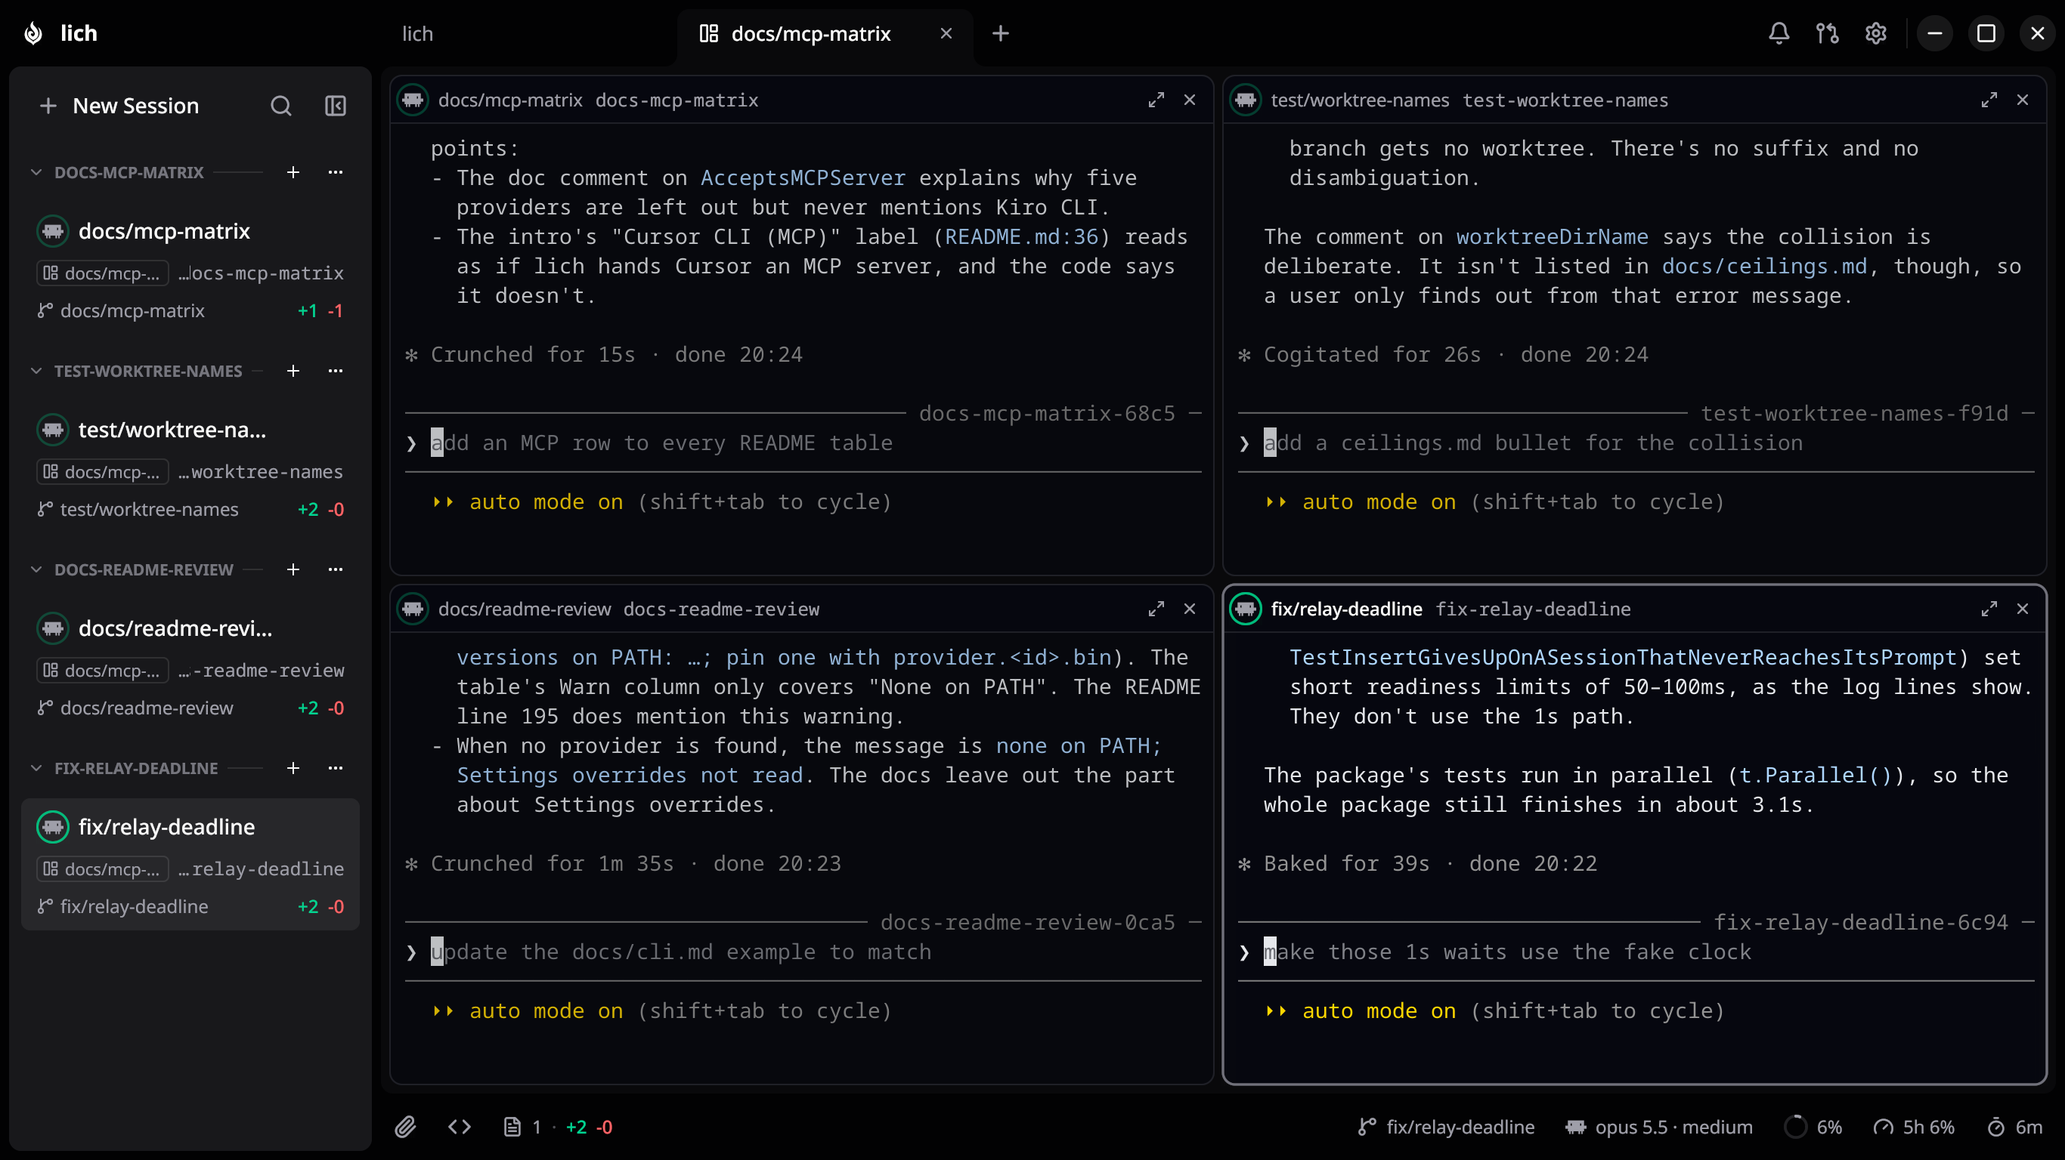
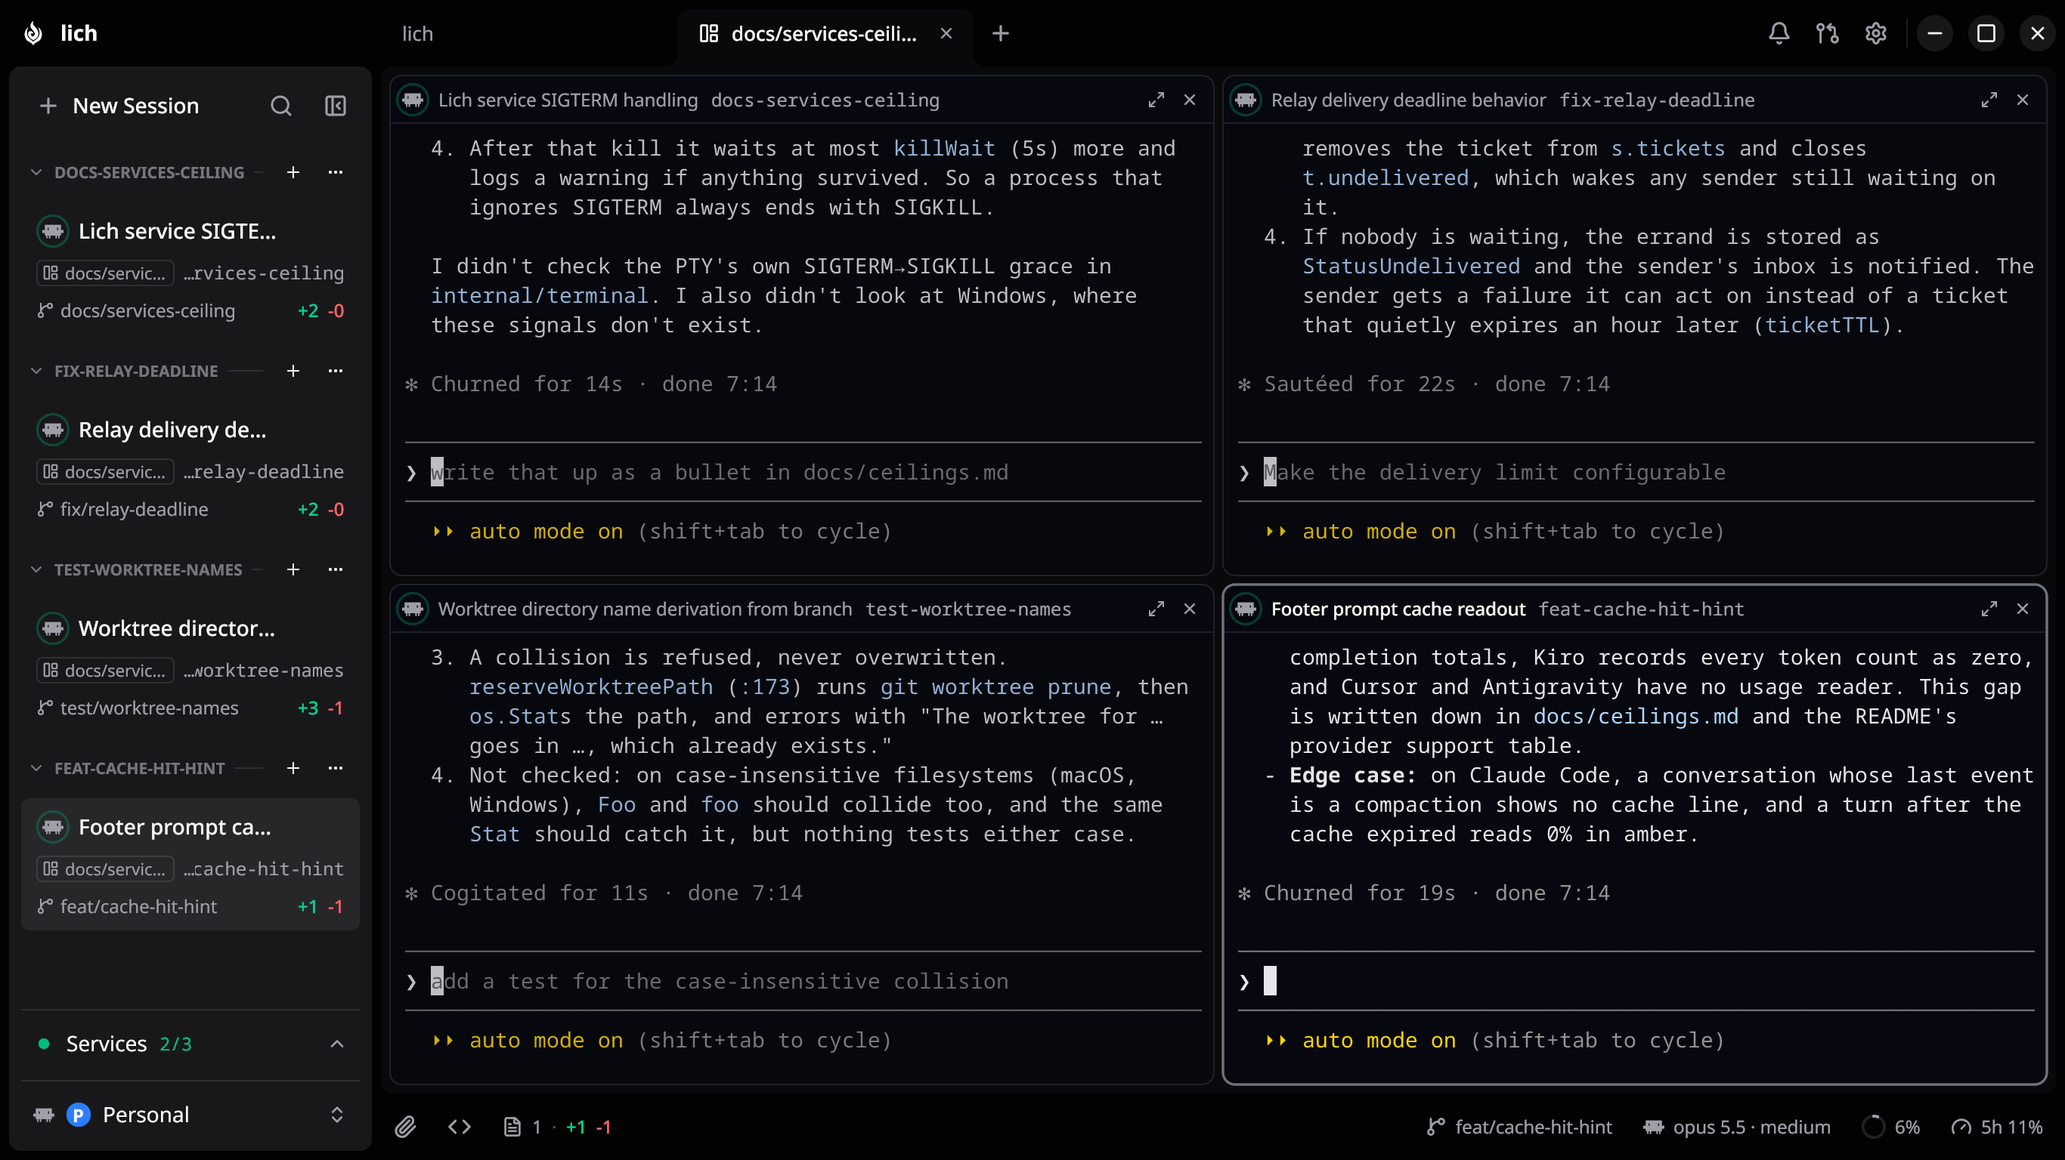
docs(readme): recapture the lead screenshot and replace the entrypoint line with services (#947)
The lead screenshot predated the Services row and the profile row at the
foot of the sidebar, and the session cards' current layout. It is
recaptured from the native window at the same size, and its alt text in
every README language now names what it shows.

The "Keep a real terminal" bullet still described terminal entrypoints,
removed in #849; it now describes project services, which took their place.

diff --git a/README.ru.md b/README.ru.md
@@ -18,7 +18,7 @@
     <a href="LICENSE"><img alt="License" src="https://img.shields.io/badge/license-AGPL--3.0-blue" /></a>
     <a href="https://github.com/sponsors/omartelo"><img alt="Sponsor" src="https://img.shields.io/github/sponsors/omartelo?color=ea4aaa&logo=githubsponsors&label=sponsors" /></a>
   </p>
-  <img src="docs/media/session.png" alt="Четыре сессии Claude Code рядом на одном экране, каждая в своём git worktree. В боковой панели видны их ветки и значок diff, внизу — модель, подписка и ветка" width="1000" />
+  <img src="docs/media/session.png" alt="Четыре сессии Claude Code рядом на одном экране, каждая в своём git worktree. В боковой панели видны их ветки и значок diff, а внизу запущенные сервисы проекта и профиль; на нижней панели ветка, модель и подписка" width="1000" />
   <!-- sponsor-logos: company logos go here, between the screenshot and Why lich -->
 </div>
 
@@ -38,11 +38,10 @@
   [Поддержка провайдеров](#поддержка-провайдеров).
 - **Работать в настоящем терминале.** Оболочки на PTY, по нескольку на проект,
   с отрисовкой на GPU и историей прокрутки с поиском, которая переживает закрытие
-  и повторное открытие окна. Задайте терминалу точку входа (`lazygit`, `k9s`,
-  `pnpm dev`), и он каждый раз будет открываться прямо в этом инструменте,
-  одинаково на Linux, macOS и Windows. Ни rc-файл оболочки, ни профиль
-  PowerShell перед этим не загружаются, поэтому точка входа, которая работает у
-  вас, сработает и у того, с кем вы ею поделитесь. Нижняя панель следит за `cd`
+  и повторное открытие окна. То, что проект держит запущенным (dev-сервер,
+  туннель, `lazydocker`), сохраняется один раз как сервис: его запускают,
+  останавливают и читают внизу боковой панели, и он может стартовать вместе с
+  lich. Нижняя панель следит за `cd`
   и показывает ветку, а в сессиях Claude Code, Codex и Kiro CLI ещё и модель с
   текущим окном контекста. Для Claude Code, Codex, Antigravity, Cursor CLI и
   подписки OpenCode Go там же видно, сколько осталось в скользящем окне лимитов

diff --git a/README.ja.md b/README.ja.md
@@ -18,7 +18,7 @@
     <a href="LICENSE"><img alt="License" src="https://img.shields.io/badge/license-AGPL--3.0-blue" /></a>
     <a href="https://github.com/sponsors/omartelo"><img alt="Sponsor" src="https://img.shields.io/github/sponsors/omartelo?color=ea4aaa&logo=githubsponsors&label=sponsors" /></a>
   </p>
-  <img src="docs/media/session.png" alt="1つの分割画面に並んだ4つの Claude Code セッション。それぞれ専用の git ワークツリーで動いています。サイドバーには各セッションがブランチと差分バッジ付きで並び、フッターにはモデル、プラン、ブランチが表示されています" width="1000" />
+  <img src="docs/media/session.png" alt="1つの分割画面に並んだ4つの Claude Code セッション。それぞれ専用の git ワークツリーで動いています。サイドバーには各セッションがブランチと差分バッジ付きで並び、その下にプロジェクトで動いているサービスとプロファイルがあります。フッターにはブランチ、モデル、プランが表示されています" width="1000" />
   <!-- sponsor-logos: company logos go here, between the screenshot and Why lich -->
 </div>
 
@@ -37,10 +37,9 @@ lich でできることは次のとおりです。
   詳しくは[プロバイダー対応状況](#プロバイダー対応状況)の表にまとめています。
 - **ターミナルは実際のターミナルのままです。** PTY ベースのシェルをプロジェクトごとにいくつでも開け、
   描画は GPU で行います。スクロールバックは検索でき、ウィンドウを閉じて開き直しても消えません。
-  ターミナルにエントリポイント（`lazygit`、`k9s`、`pnpm dev` など）を設定すると、
-  開くたびにそのツールがすぐ起動します。これは Linux、macOS、Windows のどれでも同じです。
-  シェルの rc や PowerShell プロファイルを先に読み込まないので、自分の環境で動くエントリポイントは
-  共有した相手の環境でもそのまま動きます。フッターは `cd` に合わせて今のブランチを表示します。
+  開発サーバーやトンネル、`lazydocker` のようにプロジェクトで動かし続けるものは、
+  一度サービスとして保存すれば、サイドバーの下から起動・停止し、出力を読めます。
+  lich と一緒に起動させることもできます。フッターは `cd` に合わせて今のブランチを表示します。
   Claude Code、Codex、Kiro CLI のセッションでは、使用中のモデルとコンテキストウィンドウも出ます。
   Claude Code、Codex、Antigravity、Cursor CLI、OpenCode Go のサブスクリプションなら、
   プランのローリングウィンドウの残りも表示します。

diff --git a/README.ko.md b/README.ko.md
@@ -18,7 +18,7 @@
     <a href="LICENSE"><img alt="License" src="https://img.shields.io/badge/license-AGPL--3.0-blue" /></a>
     <a href="https://github.com/sponsors/omartelo"><img alt="Sponsor" src="https://img.shields.io/github/sponsors/omartelo?color=ea4aaa&logo=githubsponsors&label=sponsors" /></a>
   </p>
-  <img src="docs/media/session.png" alt="분할 화면 하나에 나란히 띄운 Claude Code 세션 4개와 각 세션의 git worktree. 세션별 브랜치와 diff 배지를 보여 주는 사이드바, 모델과 플랜, 브랜치를 보여 주는 하단 바" width="1000" />
+  <img src="docs/media/session.png" alt="분할 화면 하나에 나란히 띄운 Claude Code 세션 4개와 각 세션의 git worktree. 사이드바에는 세션별 브랜치와 diff 배지, 맨 아래에 프로젝트에서 실행 중인 서비스와 프로필이 있고, 하단 바에는 브랜치와 모델, 플랜이 보입니다" width="1000" />
   <!-- sponsor-logos: company logos go here, between the screenshot and Why lich -->
 </div>
 
@@ -39,10 +39,9 @@ lich로 할 수 있는 일:
   [프로바이더 지원](#프로바이더-지원) 표에 정리해 두었습니다.
 - **실제 터미널을 그대로 씁니다.** 프로젝트마다 PTY 기반 셸을 여러 개 띄울 수 있고,
   렌더링은 GPU가 맡습니다. 스크롤백은 검색할 수 있고 창을 닫았다가 다시 열어도
-  사라지지 않습니다. 셸에 `lazygit`, `k9s`, `pnpm dev` 같은 엔트리포인트를 지정하면
-  Linux, macOS, Windows 어디서든 매번 그 도구가 바로 열립니다. 셸 rc나 PowerShell
-  프로필을 먼저 불러오지 않기 때문에, 내 환경에서 동작하는 엔트리포인트는 공유받은
-  사람의 환경에서도 똑같이 동작합니다. 하단 바는 `cd`를 따라가며 브랜치를 보여 줍니다.
+  사라지지 않습니다. 개발 서버, 터널, `lazydocker`처럼 프로젝트에서 계속 띄워 두는
+  것은 한 번 서비스로 저장해 두면 사이드바 아래에서 시작하고 멈추고 출력을 볼 수
+  있으며, lich와 함께 시작되게 할 수도 있습니다. 하단 바는 `cd`를 따라가며 브랜치를 보여 줍니다.
   Claude Code, Codex, Kiro CLI 세션이라면 사용 중인 모델과 컨텍스트 윈도우를, Claude
   Code, Codex, Antigravity, Cursor CLI와 OpenCode Go 구독이라면 플랜의 롤링 윈도우가
   얼마나 남았는지를 보여 주고, 원하면 세션에서 쓴 비용도 표시합니다(비용을 기록하는

diff --git a/README.zh-CN.md b/README.zh-CN.md
@@ -17,7 +17,7 @@
     <a href="LICENSE"><img alt="License" src="https://img.shields.io/badge/license-AGPL--3.0-blue" /></a>
     <a href="https://github.com/sponsors/omartelo"><img alt="Sponsor" src="https://img.shields.io/github/sponsors/omartelo?color=ea4aaa&logo=githubsponsors&label=sponsors" /></a>
   </p>
-  <img src="docs/media/session.png" alt="同一分屏里并排的四个 Claude Code 会话，各自在独立的 git worktree 里；侧栏列出每个会话的分支和 diff 标记，底栏显示模型、套餐和分支" width="1000" />
+  <img src="docs/media/session.png" alt="同一分屏里并排的四个 Claude Code 会话，各自在独立的 git worktree 里；侧栏列出每个会话的分支和 diff 标记，底部是项目正在运行的服务和当前 profile；底栏显示分支、模型和套餐" width="1000" />
   <!-- sponsor-logos: company logos go here, between the screenshot and Why lich -->
 </div>
 
@@ -36,10 +36,9 @@
   可执行文件只需指定一次，之后可以设一个默认，也可以每个会话单独选。lich 能从会话里
   *读出*哪些信息，各智能体不尽相同，详见[各智能体支持情况](#各智能体支持情况)一表。
 - **用的是真正的终端。** shell 由 PTY 驱动，每个项目可以开多个，用 GPU 渲染；滚动
-  缓冲区支持搜索，关掉窗口再打开也不会丢。给某个终端设一个入口命令（`lazygit`、`k9s`、
-  `pnpm dev`），它每次打开都直接进入这个工具，Linux、macOS 和 Windows 上都一样：
-  启动前不加载 shell rc 或 PowerShell profile，所以你这里能用的入口命令，分享给别人
-  也照样能用。底栏会跟着 `cd` 切换目录并显示当前分支；Claude Code、Codex 和 Kiro CLI
+  缓冲区支持搜索，关掉窗口再打开也不会丢。项目要一直开着的东西（开发服务器、隧道、
+  `lazydocker`）保存一次就成了服务，在侧栏底部启动、停止、查看输出，也可以随 lich
+  一起启动。底栏会跟着 `cd` 切换目录并显示当前分支；Claude Code、Codex 和 Kiro CLI
   会话还会显示模型和上下文窗口用量；Claude Code、Codex、Antigravity、Cursor CLI 和
   OpenCode Go 订阅会显示套餐滚动窗口还剩多少额度；如果你需要，还能显示会话花了多少钱，
   前提是该智能体记录了这项数据。

diff --git a/README.es.md b/README.es.md
@@ -18,7 +18,7 @@
     <a href="LICENSE"><img alt="License" src="https://img.shields.io/badge/license-AGPL--3.0-blue" /></a>
     <a href="https://github.com/sponsors/omartelo"><img alt="Sponsor" src="https://img.shields.io/github/sponsors/omartelo?color=ea4aaa&logo=githubsponsors&label=sponsors" /></a>
   </p>
-  <img src="docs/media/session.png" alt="Cuatro sesiones de Claude Code una al lado de la otra en un mismo grupo, cada una en su propio git worktree; la barra lateral muestra cada una con su rama y su indicador de diff, y en el pie de ventana se ven el modelo, el plan y la rama" width="1000" />
+  <img src="docs/media/session.png" alt="Cuatro sesiones de Claude Code una al lado de la otra en un mismo grupo, cada una en su propio git worktree; la barra lateral muestra cada una con su rama y su indicador de diff, y al pie los servicios del proyecto en marcha y el perfil; en el pie de ventana se ven la rama, el modelo y el plan" width="1000" />
   <!-- sponsor-logos: company logos go here, between the screenshot and Why lich -->
 </div>
 
@@ -38,11 +38,10 @@ lich te permite:
   [Compatibilidad por proveedor](#compatibilidad-por-proveedor).
 - **Tener una terminal de verdad.** Shells sobre PTY, varios por proyecto,
   renderizados en la GPU, con un historial en el que puedes buscar y que
-  sobrevive a cerrar y volver a abrir la ventana. Si a una le pones un punto de
-  entrada (`lazygit`, `k9s`, `pnpm dev`), se abre siempre directo en esa
-  herramienta, igual en Linux, macOS y Windows: no se carga antes ningún rc del
-  shell ni perfil de PowerShell, así que el punto de entrada que te funciona a
-  ti también le funciona a cualquiera con quien lo compartas. El pie de ventana
+  sobrevive a cerrar y volver a abrir la ventana. Lo que un proyecto mantiene en
+  marcha (un servidor de desarrollo, un túnel, un `lazydocker`) se guarda una
+  vez como servicio, que arrancas, detienes y lees desde el pie de la barra
+  lateral, y que puede arrancar junto con lich. El pie de ventana
   sigue cada `cd` y muestra la rama. En una sesión de Claude Code, Codex o Kiro
   CLI muestra además el modelo y la ventana de contexto en uso; con Claude Code,
   Codex, Antigravity, Cursor CLI y una suscripción de OpenCode Go, cuánto te

diff --git a/README.pt-BR.md b/README.pt-BR.md
@@ -18,7 +18,7 @@
     <a href="LICENSE"><img alt="License" src="https://img.shields.io/badge/license-AGPL--3.0-blue" /></a>
     <a href="https://github.com/sponsors/omartelo"><img alt="Sponsor" src="https://img.shields.io/github/sponsors/omartelo?color=ea4aaa&logo=githubsponsors&label=sponsors" /></a>
   </p>
-  <img src="docs/media/session.png" alt="Quatro sessões do Claude Code lado a lado num split, cada uma no seu git worktree. A barra lateral lista as sessões com a branch e o selo de diff, e o rodapé mostra o modelo, o plano e a branch" width="1000" />
+  <img src="docs/media/session.png" alt="Quatro sessões do Claude Code lado a lado num split, cada uma na sua git worktree. A barra lateral lista as sessões com a branch e o selo de diff e, no pé, os serviços rodando no projeto e o profile; o rodapé mostra a branch, o modelo e o plano" width="1000" />
   <!-- sponsor-logos: company logos go here, between the screenshot and Why lich -->
 </div>
 
@@ -38,11 +38,9 @@ O que dá para fazer com o lich:
   [Suporte por provedor](#suporte-por-provedor).
 - **Usar um terminal de verdade.** Shells com PTY, vários por projeto,
   renderizados na GPU, com scrollback pesquisável que sobrevive a fechar e
-  reabrir a janela. Defina um entrypoint (`lazygit`, `k9s`, `pnpm dev`) e o
-  terminal abre direto nessa ferramenta, sempre, no Linux, no macOS e no
-  Windows. Nenhum rc do shell nem perfil do PowerShell é carregado antes, então
-  o entrypoint que funciona para você funciona para qualquer pessoa com quem
-  você compartilhar. O rodapé acompanha o `cd` e mostra a branch. Numa sessão de Claude
+  reabrir a janela. O que um projeto mantém rodando (um servidor de dev, um
+  túnel, um `lazydocker`) fica salvo como serviço, que você inicia, para e lê
+  no pé da barra lateral, e que pode subir junto com o lich. O rodapé acompanha o `cd` e mostra a branch. Numa sessão de Claude
   Code, Codex ou Kiro CLI, mostra também o modelo e a janela de contexto em
   uso; no Claude Code, Codex, Antigravity, Cursor CLI e numa assinatura do
   OpenCode Go, quanto ainda resta da janela móvel do seu plano; e, se você

diff --git a/README.md b/README.md
@@ -18,7 +18,7 @@
     <a href="LICENSE"><img alt="License" src="https://img.shields.io/badge/license-AGPL--3.0-blue" /></a>
     <a href="https://github.com/sponsors/omartelo"><img alt="Sponsor" src="https://img.shields.io/github/sponsors/omartelo?color=ea4aaa&logo=githubsponsors&label=sponsors" /></a>
   </p>
-  <img src="docs/media/session.png" alt="Four Claude Code sessions side by side on one wall, each in its own git worktree — the sidebar lists them with their branch and diff badge, and the footer shows the model, the plan and the branch" width="1000" />
+  <img src="docs/media/session.png" alt="Four Claude Code sessions side by side on one wall, each in its own git worktree. The sidebar lists them with their branch and diff badge, with the project's running services and the profile at its foot, and the footer shows the branch, the model and the plan" width="1000" />
   <!-- sponsor-logos: company logos go here, between the screenshot and Why lich -->
 </div>
 
@@ -37,10 +37,9 @@ lich lets you:
   [Provider support](#provider-support) is the table.
 - **Keep a real terminal.** PTY-backed shells, several per project, rendered on
   the GPU, with searchable scrollback that survives closing and reopening the
-  window. Give one an entrypoint — `lazygit`, `k9s`, `pnpm dev` — and it opens straight into that
-  tool every time, on Linux, macOS and Windows alike: no shell rc or PowerShell
-  profile is loaded first, so an entrypoint that works for you works for whoever
-  you share it with. The footer follows `cd` and names the branch — and, for a
+  window. What a project keeps running, a dev server, a tunnel, a `lazydocker`,
+  is saved once as a service and started, stopped and read from the bottom of
+  the sidebar, and it can start with lich. The footer follows `cd` and names the branch — and, for a
   Claude Code, Codex or Kiro CLI session, the model and the context window in
   use; for Claude Code, Codex, Antigravity, Cursor CLI and an OpenCode Go
   subscription, how much of your plan's rolling window is left; if you ask, what
